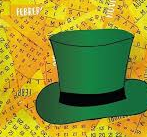
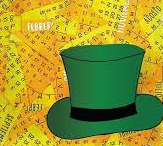
corrige puntos vacios de imagen
Corrigue defecto de rejilla de puntos vacios en rotaciones de imagen

diff --git a/tp5/transforma.py b/tp5/transforma.py
@@ -55,7 +55,7 @@ def load(imagen,angle=0,tx=0,ty=0):
                 desty = int(desty)
                 
                 if ((desty < ancho) and (destx < alto) and (desty > 0)and(destx > 0)):
-                                destino[destx,desty,k]=imagen[i,j,k]
+                                destino[i,j,k]=imagen[destx,desty,k]
 
     cv2.imshow('transformada',destino)
     cv2.imwrite('imagen_transformada.png',destino )
